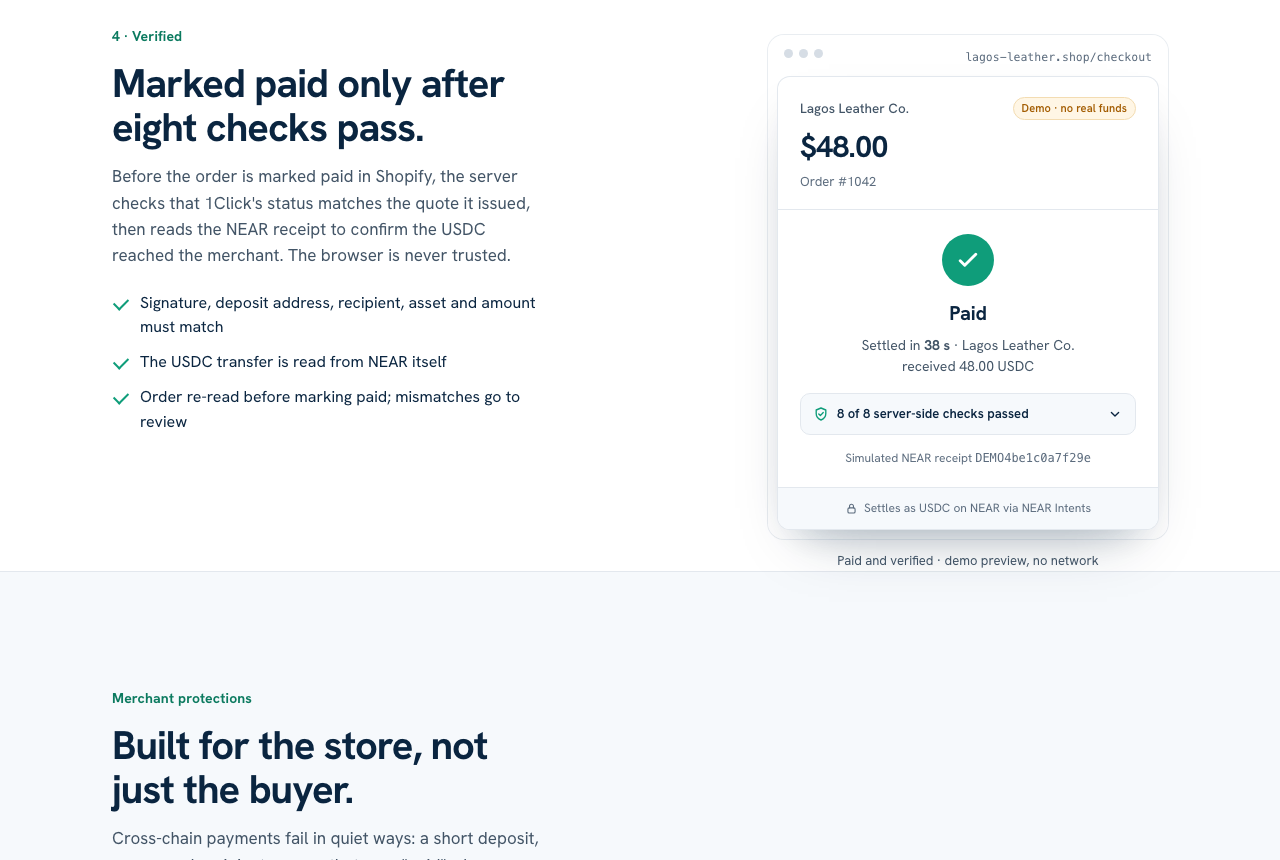
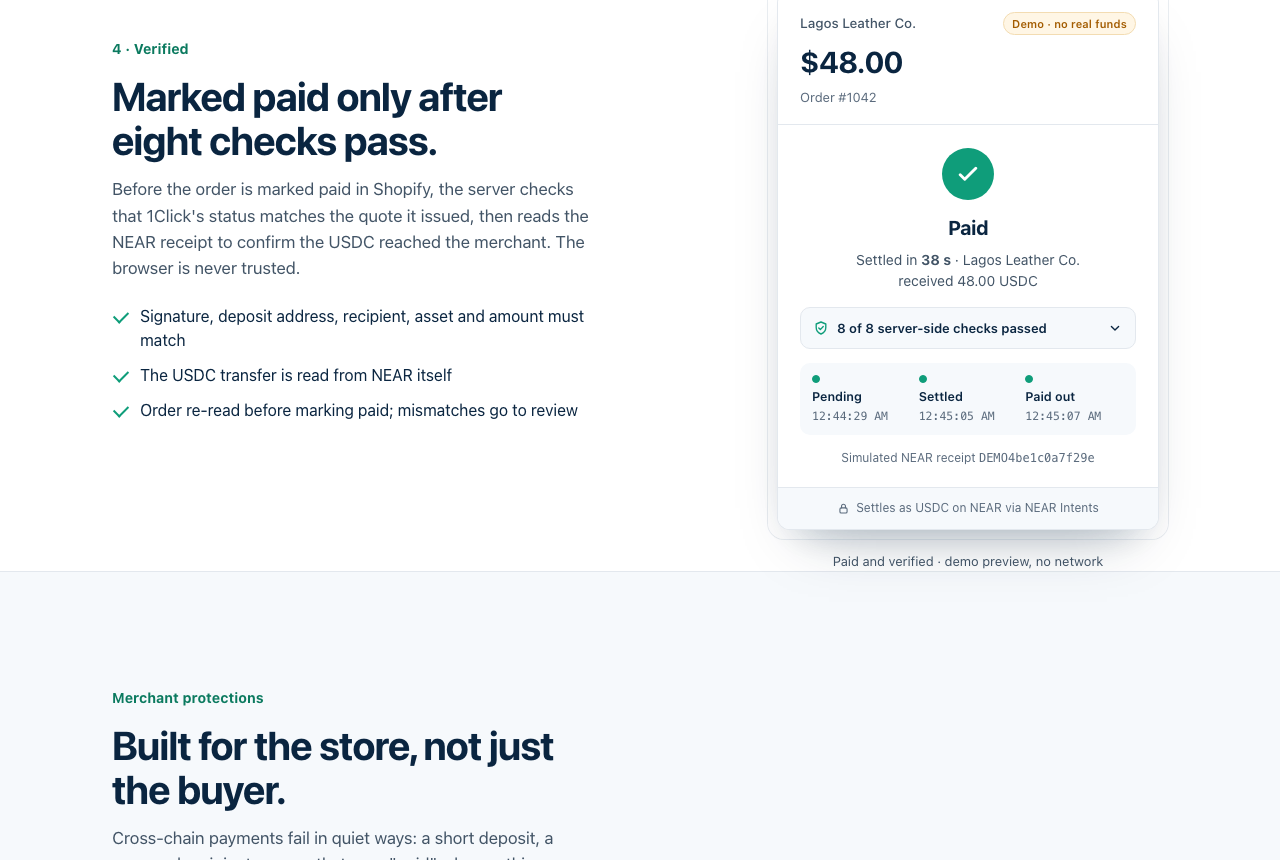
README: judge path, where it stands, real vs simulated, what can go wrong, NEAR Intents dependency, built-during; demo script; receipt screenshot

diff --git a/widget/src/styles.ts b/widget/src/styles.ts
@@ -84,6 +84,8 @@ export const styles = css`
   .btn:focus-visible, .link:focus-visible, .checks-toggle:focus-visible { outline: 2px solid var(--accent); outline-offset: 2px; }
   .btn.ghost { background: var(--surface); color: var(--ink); box-shadow: 0 0 0 1px var(--line); }
   .btn.sm { min-height: 34px; font-size: 13px; width: auto; padding: 0 12px; justify-self: start; }
+  .btn.sm.center { justify-self: center; }
+  a.btn { text-decoration: none; }
   .link { background: none; border: 0; padding: 6px 10px; font: inherit; font-size: 13px; font-weight: 600; color: var(--accent-ink); cursor: pointer; border-radius: 6px; }
   .send { display: grid; gap: 2px; }
   .big { font-size: 24px; font-weight: 600; letter-spacing: -0.01em; word-break: break-all; }

diff --git a/tests/e2e/screens.spec.ts b/tests/e2e/screens.spec.ts
@@ -32,6 +32,10 @@ test("capture README screenshots", async ({ page }) => {
   await card.getByTestId("settled").waitFor();
   await card.getByRole("button", { name: /server-side checks passed/ }).click();
   await page.screenshot({ path: out("store-settled"), fullPage: true });
+  const href = await card.getByTestId("receipt-link").getAttribute("href");
+  await page.goto(href!);
+  await page.waitForTimeout(600);
+  await page.screenshot({ path: out("receipt"), fullPage: true });
 
   await page.goto("/app");
   await page.waitForTimeout(2500);

diff --git a/tests/e2e/warmup.ts b/tests/e2e/warmup.ts
@@ -10,7 +10,7 @@ export default async function warmup() {
   const p = await (await fetch(`${base}/api/v1/payments`, {
     method: "POST",
     headers: { "content-type": "application/json" },
-    body: JSON.stringify({ merchant: "demo", amount: "1.00", orderRef: `warmup-${Date.now()}` }),
+    body: JSON.stringify({ merchant: "anytill-warmup.near", amount: "1.00", orderRef: `warmup-${Date.now()}` }),
   })).json();
   await fetch(`${base}/api/v1/payments/${p.id}`);
 }

diff --git a/README.md b/README.md
@@ -6,6 +6,13 @@ Anytill is a Shopify app and a one-script-tag checkout widget. A buyer pays with
 
 **The problem.** A store that wants crypto today either picks one chain and loses everyone else, or uses a custodial processor. Shopify's payments-app route takes weeks of approval. And cross-chain checkouts fail quietly: short deposits, swapped recipients, a page that says "paid" when nothing arrived.
 
+## Judge path (5 minutes, no keys)
+1. `corepack enable && yarn install && yarn test`: 25 unit tests and 13 browser/E2E tests, including **"Try to break it: 13 of 13 attacks refused"** and an AI agent paying over MCP.
+2. `yarn demo`, then open `http://localhost:3000/demo`, buy the $48 Weekender bag with SOL, click **Simulate the deposit**: you see Pending → Settled → Paid out with timestamps, and "8 of 8 server-side checks passed".
+3. Click **View receipt**: what the buyer paid, what the merchant got in USDC, and the spread in basis points against CoinGecko's mid-market price, with the source and time printed.
+4. Open `/app`: the merchant admin with money state and receipt per order.
+5. Read [What is real vs simulated](#what-is-real-vs-simulated) before trusting any number.
+
 ![Landing: the live checkout card is the hero and changes state as you scroll](docs/screens/landing.png)
 
 ## Live in your Shopify store in 60 seconds
@@ -36,12 +43,14 @@ The first install downloads Prisma's engines (~30 MB) and the test run downloads
 | Open `/demo`, click **Buy with crypto** on the Weekender bag ($48) | The widget for order #10xx, with eleven assets on six chains |
 | Pick **SOL**, paste any Solana address as the refund address, **Continue** | A live 1Click `EXACT_OUTPUT` price (dry run): about 0.577 SOL for exactly 48 USDC, a placeholder `DEMO-…` address and a 30-minute timer |
 | Click **Simulate the deposit** | Steps tick through deposit → swap → verify; then "Paid · Settled in N s" and "8 of 8 server-side checks passed" |
+| Click **View receipt** | A shareable receipt at `/r/<id>`: "Buyer paid 0.585 SOL on Solana; merchant received 48 USDC on NEAR; spread N bps vs mid-market (CoinGecko)", plus Pending / Settled / Paid out timestamps |
 | Look at **Merchant ledger** under the products | Each server step: created, quoted, deposit seen, verified (8/8), marked paid |
 | Click **Buy with crypto** on the $640 Atelier trunk | Refused: above the store's $500 per-order cap, no quote issued |
 | Open `/app` | The merchant admin (Polaris) for the demo store: payout account, caps, payments, refunds, proof timeline |
 
 ![Demo store: quote](docs/screens/store-quote.png)
 ![Demo store: settled and verified](docs/screens/store-settled.png)
+![Receipt: paid, received, spread vs CoinGecko mid-market, money states](docs/screens/receipt.png)
 
 Demo mode is labelled on every screen. Prices are real (1Click `dry: true`, or quotes recorded from the live API when offline); the deposit address is a placeholder and the deposit is simulated. No funds move.
 
@@ -62,6 +71,15 @@ Or place the element yourself:
 ```
 
 `<intents-checkout>` is a [Lit](https://lit.dev) web component in Shadow DOM: no framework, no style leaks, about 22 KB gzipped. It inherits the page's font and takes colours through CSS variables. It fires `anytill:status` events (`{ status, paymentId }`). Confirm payment on your server with `GET /api/v1/payments/:id` (status `paid`), never from the browser event alone.
+
+## AI agents can pay too (MCP)
+`mcp/anytill-mcp.mjs` is a dependency-free MCP server (stdio). An AI shopping agent gets seven tools: `list_assets`, `create_checkout(merchant, amount)`, `quote(payment_id, origin_asset, refund_to)`, `submit_deposit_tx`, `simulate_deposit` (demo only), `pay_status` and `receipt`. The agent can pay; it can never mark an order paid. Only the server does that, after the checks below.
+
+```json
+{ "mcpServers": { "anytill": { "command": "node", "args": ["mcp/anytill-mcp.mjs"], "env": { "ANYTILL_URL": "http://localhost:3000" } } } }
+```
+
+`tests/e2e/mcp.spec.ts` drives it over stdio exactly like an MCP client: initialize → create_checkout → quote → simulate_deposit → pay_status until paid → receipt.
 
 ## What happens when a buyer pays
 
@@ -93,12 +111,12 @@ If the buyer sends too little or too late, 1Click refunds them at the refund add
 
 ## For developers
 
-`yarn && yarn dev` · `yarn test` → unit tests, then a full checkout E2E (desktop and 375 px mobile) against recorded 1Click quotes.
+`yarn && yarn dev` · `yarn test` → 25 unit tests, then 13 E2E tests (full checkout on desktop and 375 px, receipts, MCP agent, 13-attack break-it suite) against recorded 1Click quotes.
 
 ```bash
 corepack enable      # or use node .yarn/releases/yarn-4.18.1.cjs in place of yarn
 yarn install
-yarn test            # 20 unit tests + Playwright E2E; offline and deterministic
+yarn test            # 25 unit + 13 E2E tests; offline and deterministic
 yarn test:live-dry   # one extra test against the live 1Click API (dry: true, no funds)
 yarn screenshots     # regenerates docs/screens/*.png
 ```
@@ -117,7 +135,7 @@ render.yaml           Render Blueprint (Node web service + disk)
 **NEAR technology used**
 - **NEAR Intents 1Click API**: `POST /v0/quote` with `EXACT_OUTPUT`, `GET /v0/status`, `POST /v0/deposit/submit`. Settlement runs through the NEAR Intents verifier into the merchant's account; there is no Anytill contract.
 - **NEAR RPC** (`EXPERIMENTAL_tx_status`, `view_account`, `storage_balance_of` on the USDC contract `17208628…36133a1`): reads the payout receipt and checks the merchant account.
-- **Aurora Intents Connect** (`@aurora-is-near/intents-connect-wallet/evm`): sends the deposit from an injected EVM wallet (Ethereum, Base, Arbitrum). Every other chain pays by QR / address.
+- **Aurora Intents Connect** (`@aurora-is-near/intents-connect-wallet/evm`): sends the deposit from an injected EVM wallet (Ethereum, Base, Arbitrum). Verified against a scripted EIP-1193 wallet in `tests/unit/intents-connect.spec.ts`; not yet tried with a real wallet. Every other chain pays by QR / address.
 - **USDC on NEAR** (NEP-141) as the settlement asset.
 
 **Stack**: Shopify's React Router app template (React Router 7.18.2, the version the template pins; see FAQ), Polaris web components in the admin, Prisma + SQLite, Node, Lit 3 for the widget, yarn 4, Playwright, Render.
@@ -131,15 +149,59 @@ You need a Shopify Partner account, a development or real store, a NEAR mainnet 
 4. Install the app on your store from the Partner Dashboard, open it, paste your NEAR account, set caps, turn it on.
 5. In the checkout editor, add **Anytill pay** to the Thank-you and Order-status pages and set its **Anytill app URL** setting.
 
-## What is real and what is demo
+## Where it stands
 
-| Part | Status |
-|---|---|
-| 1Click quotes | Real API. Demo uses `dry: true` (real prices, no deposit address); tests use responses recorded from the live API on 2026-11-10 |
-| Settlement verification | Real code, unit-tested against tampered statuses and receipts. In demo it runs on a simulated NEAR receipt, labelled as such |
-| Deposit and swap | Live mode: real. Demo: simulated, placeholder `DEMO-…` address, QR crossed out |
-| Shopify | Admin API calls are real code; they need a store to run. Demo `/app` shows the seeded demo store outside Shopify |
-| Mainnet usage | None yet. No real orders have been paid through Anytill at the time of writing |
+| | Claim | Evidence |
+|---|---|---|
+| ✅ | EXACT_OUTPUT quotes from 1Click for 11 assets on 6 chains | `scripts/record-quotes.mjs` output, recorded 2026-11-11 from the live API (`dry: true`); `yarn test:live-dry` re-checks live |
+| ✅ | Settlement is verified server-side before an order is marked paid | 8 checks in `app/lib/settlement.server.ts`; 13 rejection tests in `tests/unit/settlement.spec.ts` |
+| ✅ | Attacks are refused | `tests/e2e/break-it.spec.ts` prints "13 of 13 attacks refused" |
+| ✅ | Receipts with spread vs a named mid-market source | `/r/:id`; `tests/unit/receipt.spec.ts`; E2E opens the receipt and checks the CoinGecko source |
+| ✅ | Pending → Settled → Paid out, each timestamped | widget, receipt and admin; asserted in the checkout E2E |
+| ✅ | Pay from an EVM wallet through Aurora Intents Connect | `tests/unit/intents-connect.spec.ts`: the real package builds an ERC-20 `transfer(deposit, exact amount)`, a native ETH transfer, and asks the wallet to switch chain first. Tested against a scripted wallet, **not** a real one |
+| ✅ | AI agents can pay over MCP | `tests/e2e/mcp.spec.ts` |
+| ✅ | 375 px mobile | the full checkout E2E runs at 375 px too |
+| ⚠ | Shopify app on a real store | code is complete (`orderMarkAsPaid`, tag, metafield, checkout extension) but not yet run on a store; needs a Partner account |
+| ⚠ | Checkout UI extension | written against the 2026-10 API, never built by the Shopify CLI (no Partner login yet) |
+| ⚠ | Refund in crypto | the admin builds a real 1Click refund quote; the merchant sends the USDC themselves. Not run on mainnet |
+| ❌ | Real orders paid on mainnet | none yet. No real funds have moved through Anytill |
+| ❌ | Non-EVM wallet buttons (Solana, NEAR, BTC wallets) | these chains pay by QR / address only |
+
+## What is real vs simulated
+
+| Part | Real | Simulated (demo only, labelled on screen) |
+|---|---|---|
+| 1Click quotes | Live API, `dry: true` in demo; recorded live responses in tests | – |
+| Mid-market prices | CoinGecko `/simple/price`, fetched at quote time | Tests use the CoinGecko snapshot recorded with the quotes |
+| Deposit address | Live mode: 1Click's | `DEMO-…` placeholder, QR crossed out, so nothing can be sent to it |
+| Deposit and swap | Live mode | Simulated; status moves after `DEMO_SETTLE_MS` |
+| NEAR payout receipt | Live mode reads it over RPC | Built from the payment, labelled "simulated NEAR receipt" |
+| Settlement checks | Same code in both modes | – |
+| Shopify | Admin API code | `/app` shows a seeded demo store outside Shopify |
+| Spread on a demo receipt | Real quote vs real CoinGecko price, so the number is meaningful | It uses the **quoted** amount, which includes the 1% slippage buffer that 1Click refunds; live receipts use the amount 1Click actually swapped |
+
+## What can go wrong
+
+| What | What happens | Who acts |
+|---|---|---|
+| Buyer sends too little or too late | 1Click refunds the deposit to the buyer's refund address; order stays unpaid; widget shows "Refunded" | Nobody: automatic |
+| Buyer sends too much | Merchant still gets the exact amount; 1Click refunds the excess | Nobody: automatic |
+| Swap fails | Status FAILED, deposit refunded by 1Click, order unpaid | Buyer may retry |
+| 1Click says SUCCESS but NEAR shows no USDC to the merchant | Not marked paid; stays "verifying" and is re-checked | Merchant if it persists |
+| Status doesn't match the quote we issued (recipient, asset, amount, signature, deposit) | Marked **needs review**, never paid | Merchant: check, then refund in crypto |
+| Order edited or cancelled after the quote | USDC arrives, order goes to **needs review** | Merchant: ship or refund |
+| NEAR RPC down | Fails closed: not paid until the receipt can be read | Nobody: retried every 10 s |
+| Merchant enters a wrong NEAR account | Blocked at setup if it doesn't exist or isn't registered with USDC | Merchant |
+| Exploit attempts (forged deposit, replayed quote, redirected payout, fake token, price tampering, double mark-paid) | Refused; see `tests/e2e/break-it.spec.ts` | – |
+| Anytill server is compromised | It holds no keys and no funds; the worst case is a wrong "paid" mark in Shopify, never stolen USDC. Caps bound the exposure | Merchant: rotate app credentials |
+
+## Remove NEAR Intents and this stops
+Without the NEAR Intents verifier and 1Click there is no route from SOL, BTC or ETH on other chains to USDC in the merchant's account, no EXACT_OUTPUT guarantee, no automatic refunds and no signed quote to verify against. Anytill would need its own bridge, market maker and custody, which is exactly what it avoids. The NEAR chain is also where the payout is verified: the order is marked paid only after reading the USDC transfer on NEAR.
+
+## Built before vs during NEAR HACKATHON (Nov 1–14)
+- **Before:** nothing of ours. The starting point is Shopify's public React Router app template (commit `81eb98b`, 2026-10-30), plus open-source libraries in `package.json`.
+- **During:** everything else, from the first commit on 2026-11-10 (`git log --reverse`): payments core, settlement checks, Lit widget, landing, demo store, admin, checkout extension, receipts, MCP server, tests.
+- **AI tools used:** the code, tests and docs were written with Claude Code (Anthropic), directed and reviewed by the team.
 
 ## FAQ
 
@@ -156,4 +218,4 @@ You need a Shopify Partner account, a development or real store, a NEAR mainnet 
 **Which assets?** USDC (Base, Arbitrum, Ethereum, Solana), USDT (Ethereum), ETH (Ethereum, Base, Arbitrum), SOL, BTC, NEAR. Some routes have minimums set by 1Click; the buyer sees them as a plain message. BTC takes longer to settle (1Click estimates ~13 min).
 
 ## Credits and licence
-Built during NEAR HACKATHON (2026-11). Starts from Shopify's public [React Router app template](https://github.com/Shopify/shopify-app-template-react-router) (commit `81eb98b`, MIT). Uses Lit, uqr, Prisma, Playwright and the packages listed in `package.json`. Code was written with AI assistance (Claude Code). MIT licence, see [LICENSE](LICENSE).
+Built during NEAR HACKATHON (2026-11). Starts from Shopify's public [React Router app template](https://github.com/Shopify/shopify-app-template-react-router) (commit `81eb98b`, MIT). Uses Lit, uqr, Prisma, Playwright and the packages listed in `package.json`. Mid-market prices on receipts come from CoinGecko's public API. Code was written with AI assistance (Claude Code). MIT licence, see [LICENSE](LICENSE).

diff --git a/docs/demo-script.md b/docs/demo-script.md
@@ -1,0 +1,18 @@
+# Anytill demo video: script (1 min 55 s)
+
+Record at 1280×800, browser zoom 100%, `yarn demo` running. Narration is spoken; **Caption** is the on-screen text (burn in, bottom-left, Hanken Grotesk 600, navy on white). Keep the cursor slow. No music under the narration.
+
+| Time | Screen | Narration | Caption |
+|---|---|---|---|
+| 0:00–0:08 | Landing page, top. Scroll slowly so the right-hand card moves from "choose" to "quote" | "Shopify stores can't take crypto from any chain without a custodian. Anytill fixes that." | Take crypto from any chain. Get USDC. |
+| 0:08–0:18 | Keep scrolling to "Verified"; the card shows Paid | "The buyer pays with whatever they hold. The store gets the exact order total in USDC, on NEAR, through NEAR Intents." | Exact USDC to the merchant via NEAR Intents 1Click |
+| 0:18–0:30 | `/demo`. Click **Buy with crypto** on the Weekender bag ($48) | "This is a demo store. The price comes from Shopify's order on the server, never from the browser." | Demo store · amount read server-side |
+| 0:30–0:45 | Pick **SOL**, paste a Solana refund address, **Continue** | "I pick SOL. Anytill asks 1Click for an exact-output quote: send this much SOL, the merchant receives exactly 48 USDC." | Live 1Click EXACT_OUTPUT quote · demo address, no funds |
+| 0:45–1:00 | Click **Simulate the deposit**; steps tick; then "Paid · Settled in N s" | "In demo mode the deposit is simulated. Watch the money states: pending, settled, paid out, each with a time." | Pending → Settled → Paid out |
+| 1:00–1:12 | Expand **8 of 8 server-side checks passed** | "Before the order is marked paid, the server checks the swap against the quote it issued, then reads the USDC transfer on NEAR itself." | Marked paid only after 8 checks, incl. the NEAR receipt |
+| 1:12–1:27 | Click **View receipt** | "Every payment gets a shareable receipt: what the buyer paid, what the store got, and the spread against CoinGecko's mid-market price." | Receipt · spread in bps vs a named price source |
+| 1:27–1:37 | `/app` admin: payments table with Money state and Receipt | "The merchant sees the same in the Shopify admin, sets per-order and daily caps, and can refund in crypto." | Polaris admin · caps · crypto refunds |
+| 1:37–1:47 | Terminal: `yarn test`, scroll to "Try to break it: 13 of 13 attacks refused" | "We attacked it: forged deposits, replayed quotes, redirected payouts, fake tokens, price tampering. Thirteen of thirteen refused." | Try to break it: 13 of 13 refused |
+| 1:47–1:55 | Back to the landing hero | "Anytill. One Shopify app, or one script tag. Open source, built at NEAR HACKATHON." | Built at NEAR HACKATHON · @NEARProtocol #NEARHackathon |
+
+**Say on screen or in the post, not as a claim in the video:** the deposit and payout in this demo are simulated; no real orders have been paid yet.
